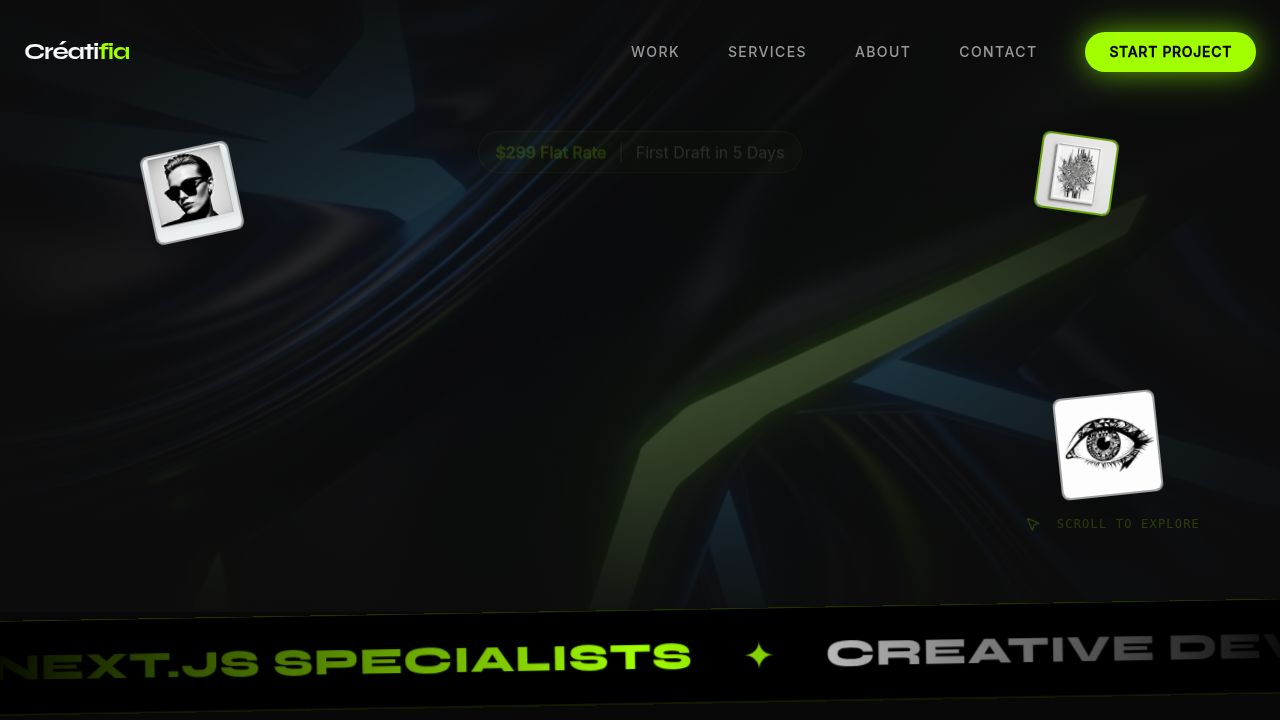
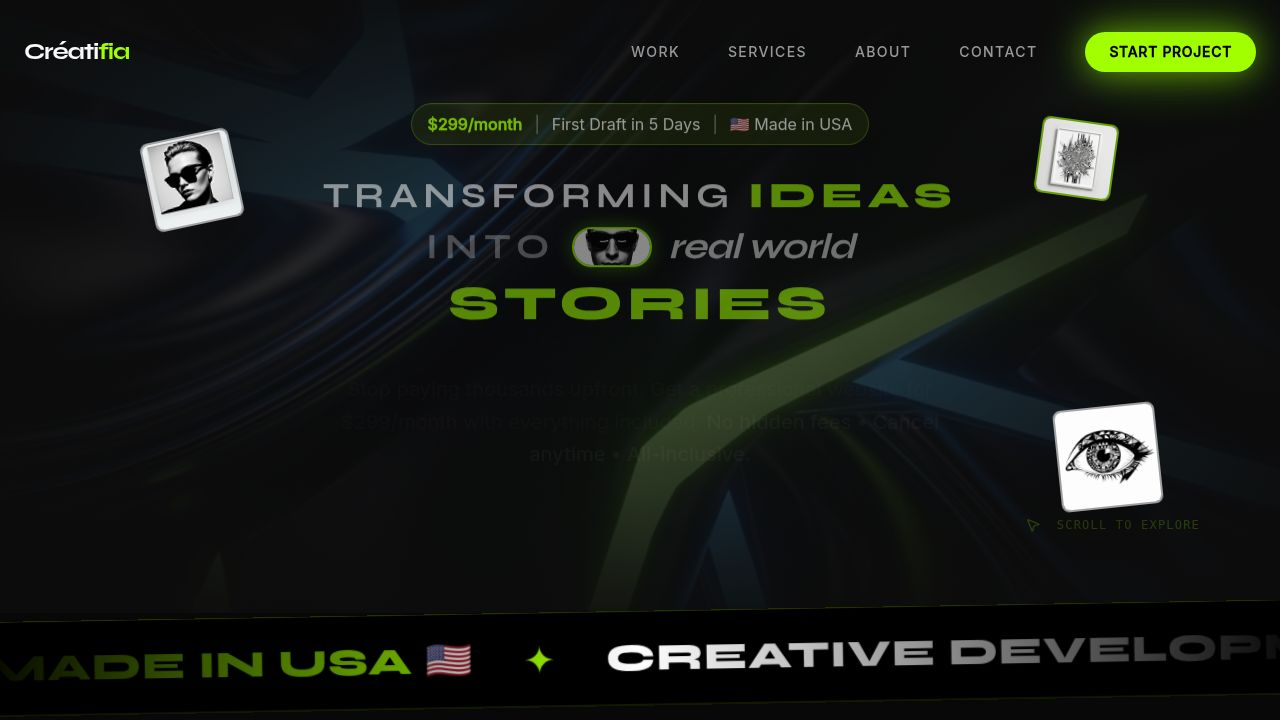
Make the main headline visually hidden for better SEO
Visually hide the H1 heading element while ensuring it remains accessible to search engines for SEO purposes.

Replit-Commit-Author: Agent
Replit-Commit-Session-Id: aa901487-d86e-4758-8fdb-1e46351b3fc7
Replit-Commit-Checkpoint-Type: full_checkpoint
Replit-Commit-Event-Id: 24ec58a8-3249-4f34-8a18-6e8ef959cff6
Replit-Commit-Screenshot-Url: https://storage.googleapis.com/screenshot-production-us-central1/0a1adc62-92b0-4a03-a96c-65dfef2bb2b2/aa901487-d86e-4758-8fdb-1e46351b3fc7/kpqZV2s
Replit-Helium-Checkpoint-Created: true

diff --git a/client/src/pages/home.tsx b/client/src/pages/home.tsx
@@ -228,11 +228,10 @@ export default function Home() {
              {/* Main Headline - SEO-optimized H1 with creative typography */}
              <div className="relative z-10 w-full mb-8">
                 <FadeIn delay={0.3}>
-                  <h1 className="text-2xl sm:text-3xl md:text-4xl lg:text-5xl font-display font-black text-center mb-6">
-                    <span className="text-white">$299/Month </span>
-                    <span className="text-accent">Website Subscription</span>
+                  <h1 className="absolute w-px h-px p-0 -m-px overflow-hidden whitespace-nowrap border-0" style={{ clip: 'rect(0, 0, 0, 0)' }}>
+                    $299/Month All-Inclusive Website Subscription - Design, Hosting, SEO & Updates Included
                   </h1>
-                  <div className="text-center space-y-1" aria-label="Transforming Ideas into Real World Stories">
+                  <div className="text-center space-y-1">
                     <p className="text-xl sm:text-2xl md:text-3xl lg:text-4xl font-display uppercase text-white leading-[1.3] tracking-[0.15em]">
                       <span className="font-light">Transforming</span>{" "}
                       <span className="font-black text-accent">Ideas</span>